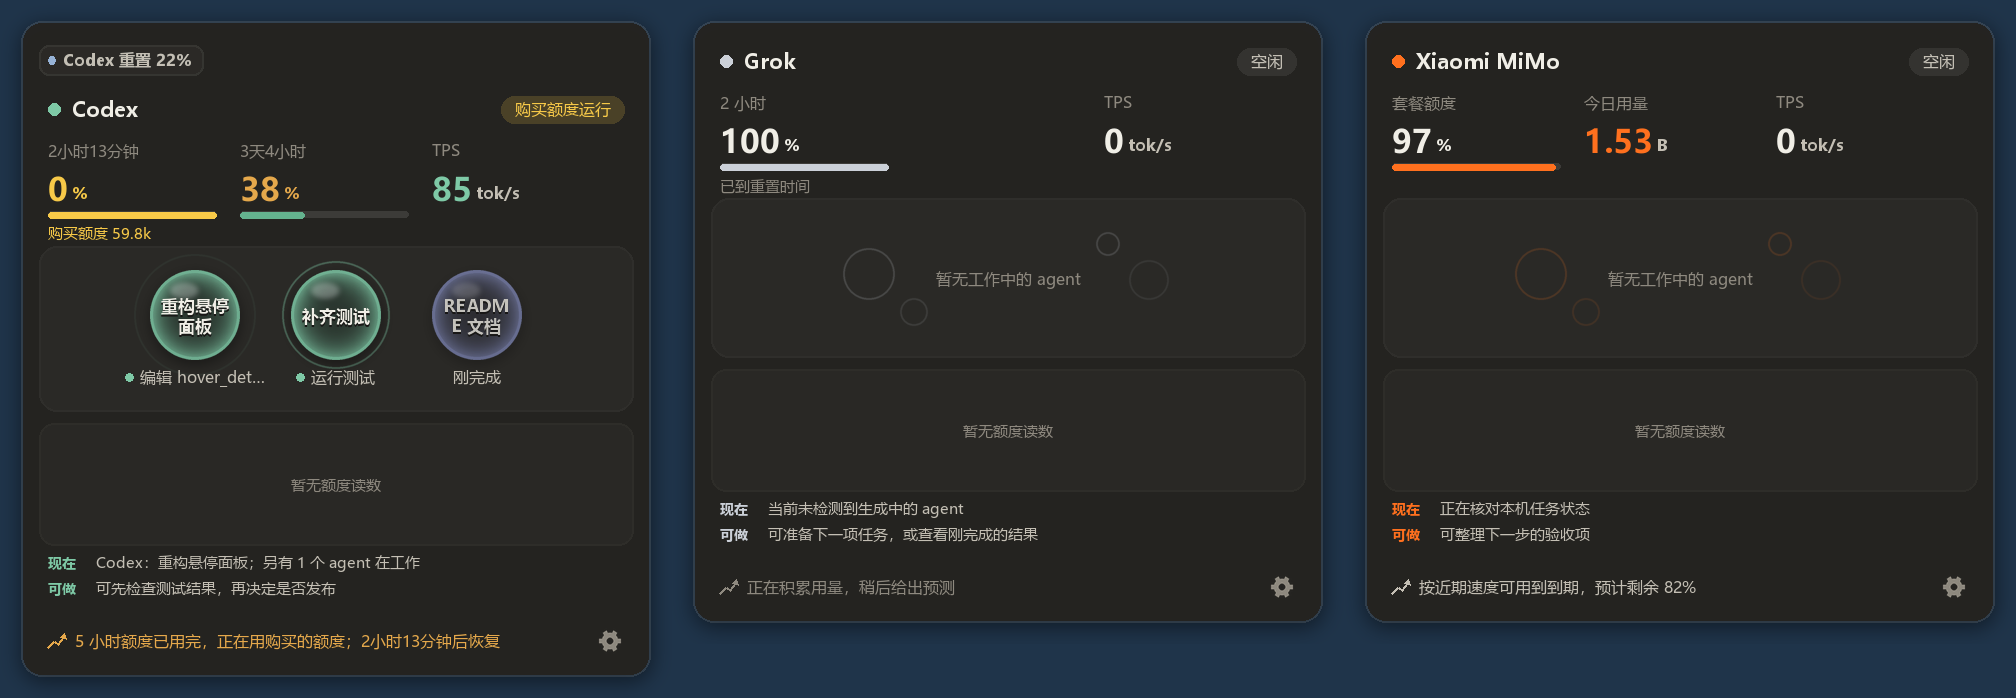
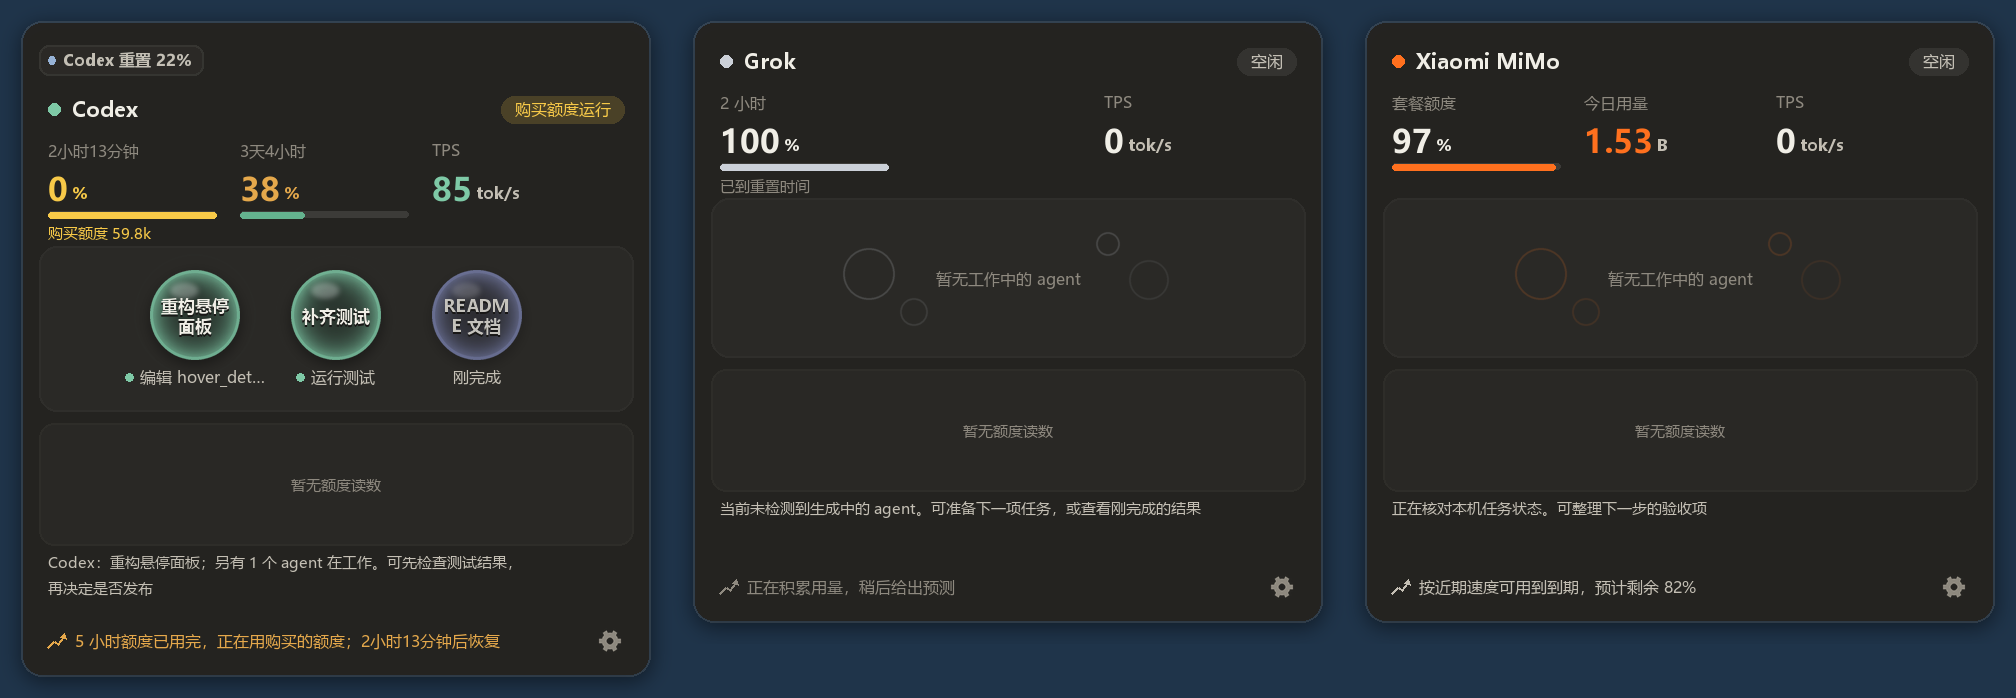
Render shared MiMo hint as one neutral paragraph

Changed region(s): [[0.0312, 0.7822, 0.25, 0.8725], [0.3438, 0.7221, 0.5938, 0.7822], [0.6875, 0.7221, 0.8438, 0.7822]]

diff --git a/agent_panel.py b/agent_panel.py
@@ -145,7 +145,7 @@ CHART = 80 + CHART_AXIS     # Burn chart under the task field.
 CHART_TOP = 16              # Field bottom to chart sprite; the two plates keep an 8 px gap.
 CHART_H = 64 + CHART_AXIS   # Chart sprite: label row, plot and clock row.
 CHART_LABEL = 15            # Label row inside the sprite.
-HINT_H = 42                 # Two compact lines between chart and forecast.
+HINT_H = 42                 # One short paragraph, up to two lines, above the forecast.
 GEAR_RADIUS = 7.5
 GEAR_HIT = 17.0
 
@@ -797,16 +797,16 @@ class Scene:
             frame.alpha_composite(sprite.crop((0, label, width, sprite.height)), (left, top + label))
 
     def _hint(self, frame, model, field_h, scale, at):
-        """Two short MiMo/local hints; draw them over the cached background."""
+        """One shared MiMo/local paragraph, drawn over the cached background."""
         draw = ImageDraw.Draw(frame)
-        label_font, text_font = ui_font(round(9 * scale), "bold"), ui_font(round(10 * scale))
+        text_font = ui_font(round(10 * scale))
         top = chart_top(model, field_h) + CHART_H + chart_extra_for(model) + 14
-        for offset, label, value in ((0, "现在", model.hint_now), (17, "可做", model.hint_next)):
-            y = at(top + offset)
-            draw.text((at(PAD), y), label, font=label_font, fill=accent(model.letter), anchor="lm")
-            left = at(PAD + 32)
-            fitted = forecast_text(value or "—", at(WIDTH - PAD - 8) - left, text_font, draw)
-            draw.text((left, y), fitted, font=text_font, fill=SECONDARY_TEXT, anchor="lm")
+        now = model.hint_now.rstrip("。；！ ")
+        idea = model.hint_next.lstrip("。；！ ")
+        paragraph = "。".join(part for part in (now, idea) if part) or "正在整理可做的事项"
+        lines = forecast_lines(paragraph, at(WIDTH - 2 * PAD - 6) - at(0), text_font, draw)
+        for index, line in enumerate(lines):
+            draw.text((at(PAD), at(top + index * 17)), line, font=text_font, fill=SECONDARY_TEXT, anchor="lm")
 
     def _bubble(self, frame, m: BubbleModel, x, y, r, scale, alpha, label=True, expanded=False, crisp=False):
         layout = round(m.radius * scale)
